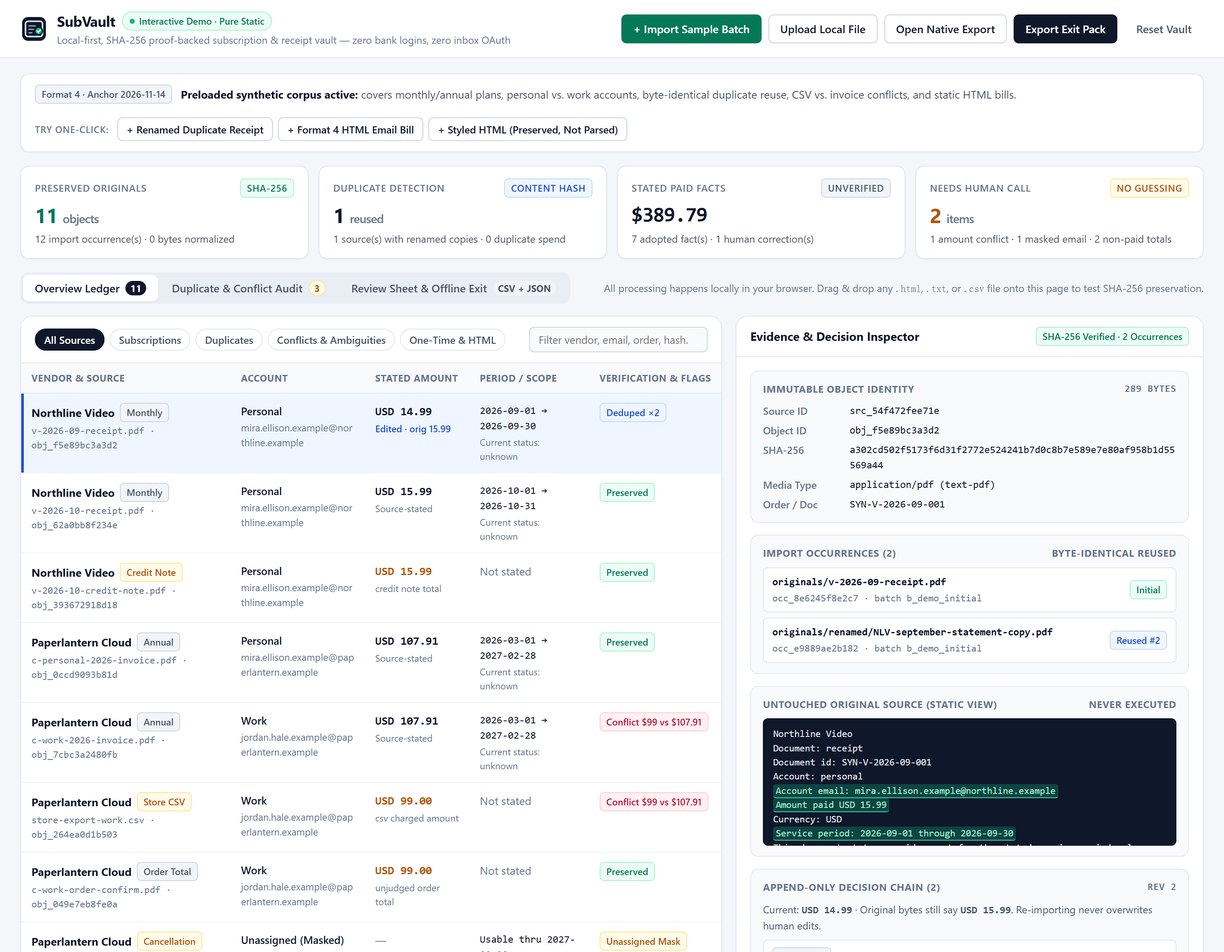
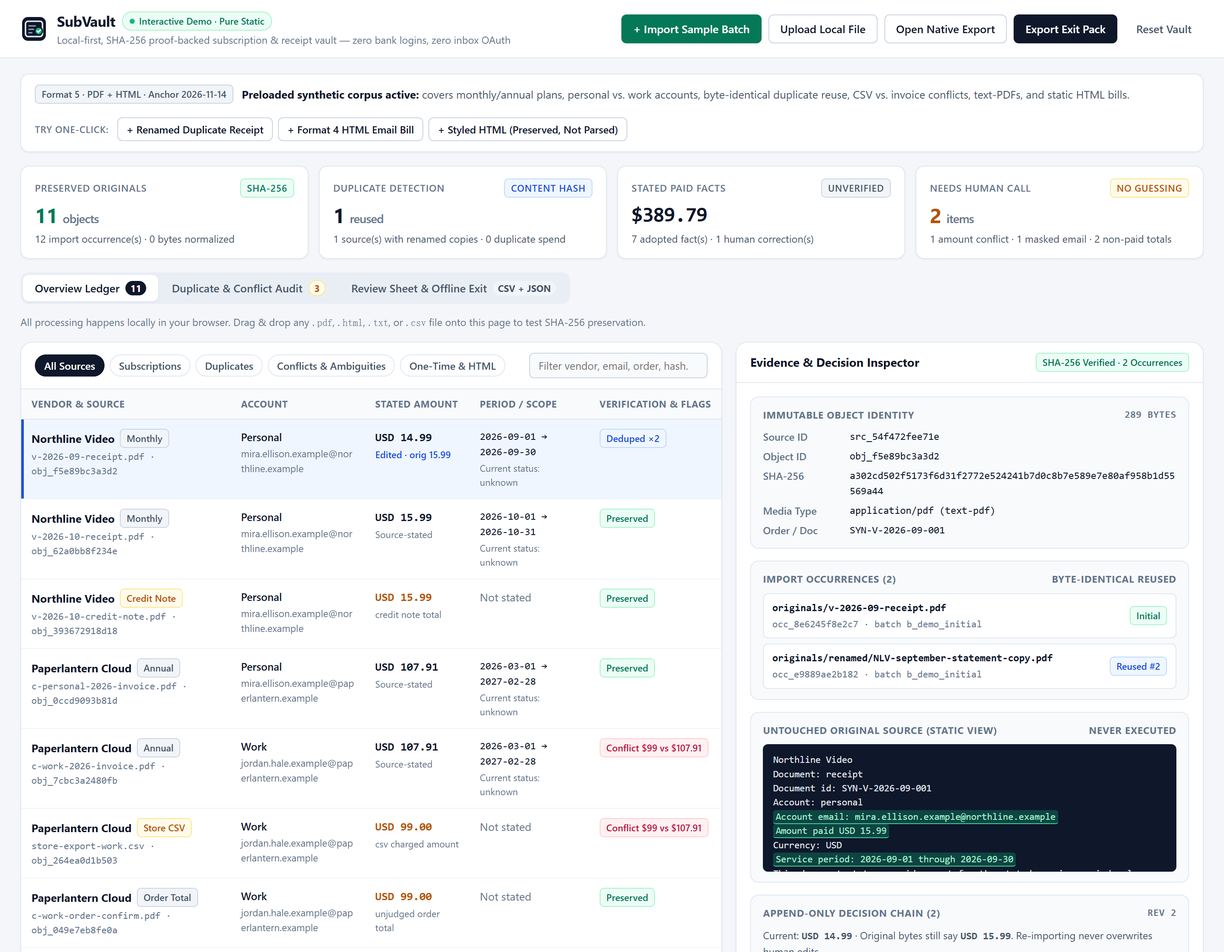
docs(release): bump to v0.1.1 with conservative 0.1.x roadmap, format 5 demo bundle, and refreshed screenshots

diff --git a/RELEASE_NOTES.md b/RELEASE_NOTES.md
@@ -1,34 +1,31 @@
-# SubVault v0.1.0 Release Notes
+# SubVault v0.1.1 Release Notes
 
-**Release date:** 2026-11-19  
-**Tag:** `v0.1.0`  
+**Release date:** 2026-11-20  
+**Tag:** `v0.1.1`  
 **Live Demo:** <https://yanagi42.github.io/SubVault/>
 
 ---
 
 ## Highlights
 
-SubVault `v0.1.0` packages the verified **local-first Rust + SQLite preservation core (T0–T5, Vault Formats 1–4)** alongside a **pure-static interactive Web Demo** so anyone can inspect SubVault's epistemic ledger, SHA-256 byte-identical deduplication, conflict handling, append-only human corrections, and verifiable offline exit flow directly in a browser or from a portable Linux bundle.
+SubVault `v0.1.1` adds **Format 5 native static text-PDF preservation and extraction (`subvault pdf`)** — allowing a single isolated vault to preserve and verify **both** real text-PDFs (uncompressed and `/FlateDecode`) and static HTML billing emails, while keeping Formats 1–4 strictly unmigrated and bringing real binary `.pdf` hashing and parsing into the pure-static Web Demo.
 
-### What's New in `v0.1.0`
+### What's New in `v0.1.1`
 
-1. **Interactive Pure-Static Web Demo (`web/`)**
-   - **Preloaded Synthetic Corpus:** Ships out-of-the-box with realistic billing scenarios covering monthly/annual subscriptions, personal vs. work account separation at the same vendor, byte-identical duplicate detection across renamed files, CSV vs. tax-invoice amount conflicts (`$99.00` vs. `$107.91`), credit-note totals vs. paid amounts, cancelled-but-usable renewals, masked unassigned account emails, one-time perpetual software licenses, and Format 4 static HTML table-row bills.
-   - **One-Click Sample Import & Local File Drop:** Re-import the 12-file sample batch or drop local `.html`, `.txt`, `.csv`, and `.pdf` files directly in the browser to observe real SHA-256 object reuse, occurrence logging, and non-destructive human `correct` / `undo` decision preservation.
-   - **Zero Lock-In Browser Exports & Native CLI Interop:** Preview and download `review.txt`, `facts.csv`, `records.json`, `manifest.json`, or a single full `.zip` offline exit archive (`web/zip.js`) directly verifiable by `subvault verify-package`, and open/SHA-256-verify real native `subvault export` folders directly in the browser via **Open Native Export**.
-   - **Interactive Human Decisions & Local Persistence:** Inline amount `correct`/`undo`, masked-account attribution (`human_assign_account`/`undo`), and automatic browser `localStorage` persistence with one-click reset.
-   - **Subpath-Safe Static Hosting:** All static asset references are strictly relative (`./*`) with `.nojekyll` enabled for zero-error deployment on GitHub Pages (`/SubVault/`).
+1. **Native Text-PDF Preservation & Extraction — Isolated Format 5 (`subvault pdf`)**
+   - **Pure-Rust Bounded-Memory PDF Parser (`src/pdf_parse.rs`, `src/pdf.rs`):** Preserves raw `%PDF-` bytes verbatim in `objects/obj_<id>` (SHA-256 verified, zero normalization) and extracts source-stated lines from uncompressed and `/FlateDecode` (`miniz_oxide` `=0.8.8`, capped at 1 MiB/stream and 4 MiB/PDF) content streams with 1-based `pdf_page` locators.
+   - **Verified Against the Full T0 Synthetic PDF Corpus:** Extracts monthly/yearly `stated_amount_paid` and `stated_service_period` facts, keeps credit-note and order-confirmation `Total` lines un-adopted, preserves masked cancellation notices (`j***@...`, usable-through dates) unassigned, preserves one-time perpetual license scope verbatim without inventing renewal dates, and deduplicates renamed byte-identical copies (`AlreadyPreserved`) without overwriting prior human `correct`/`undo` edits.
+   - **Honest Safety Boundaries:** Encrypted PDFs (`/Encrypt`) are preserved verbatim and reported as `extraction=unsupported` (`encrypted_pdf`); scanned/image-only PDFs report `no_extractable_text` (`ocr=not_available`); fake renamed non-PDF text files are rejected before preservation (`invalid_pdf_header`).
+   - **Mixed PDF + HTML Vault:** Format 5 (`subvault init --format 5`) accepts both `subvault pdf` and `subvault html`, with full support for `facts`, `candidates`, `correct`, `undo`, `export`, `verify-package`, and `review --package`.
 
-2. **Verified Rust + SQLite Preservation & Extraction Core (`subvault` CLI)**
-   - **Immutable Byte Custody (T1):** Content-addressed `objects/obj_<id>` storage with SHA-256 integrity verification, zero byte normalization, idempotent `CommandId` journaling, exclusive non-blocking `flock`, SQLite 3.46 WAL (`synchronous=FULL`), atomic directory publication via `renameat2(RENAME_NOREPLACE)` + parent fd `fsync`, and 17 distinct honest exit codes.
-   - **Source-Stated Candidates & Facts (T2a / T3 / Format 4):** Deterministic extraction for UTF-8 text fragments and constrained static HTML bills (`tl` 0.7.8 + `html-escape` 0.2.13, refusing `<style>` / stylesheets instead of guessing CSS visibility), recording exact Unicode scalar and UTF-8 byte offsets.
-   - **Append-Only Human Decisions:** `correct` and `undo` append auditable human revisions while keeping original bytes untouched and surviving re-imports.
-   - **Offline Exit, Standalone Verification & Read-Only Review Sheet (T5):** `subvault export` produces self-contained packages (`records.json`, `facts.csv`, `manifest.json`, `originals/<object_id>`) with explicit `complete` vs. `partial` reporting; `subvault verify-package --package PATH` independently validates `manifest.json`, `snapshot_id`, `facts.csv`, and every original file's SHA-256 without needing the live vault; `subvault review` writes a lock-consistent plain-text review sheet linked only to hash-verified package originals.
+2. **Interactive Pure-Static Web Demo (`web/`) — Real Binary PDF Support + Native CLI Bridge**
+   - **Real Binary `.pdf` Drop (`web/pdf.js`):** Dropping local `.pdf` files onto the browser hashes exact raw PDF bytes (matching `synthetic/corpus/byte-expectations.json` SHA-256 bit-for-bit), deduplicates renamed copies, and extracts static text lines client-side.
+   - **Bidirectional CLI ↔ Web Interop:** Download a full `.zip` offline exit archive (`web/zip.js`) directly verifiable by `subvault verify-package`, or open any native `subvault export` directory (Format 3/4/5) via **Open Native Export** to verify every file's SHA-256 in-browser.
+   - **Preloaded Demo & Human Decisions:** Ships preloaded with the 12-file synthetic corpus, inline amount `correct`/`undo`, masked account attribution + undo, and local browser persistence.
 
-3. **CI, Automated Packaging & Release Verification**
-   - Added `.github/workflows/ci.yml` running deterministic corpus verification, `cargo fmt --check`, `cargo clippy --lib --bins -- -D warnings`, full Rust unit and historical-worktree compatibility integration tests, bidirectional Web<->CLI interop checks, and portable bundle packaging with `SHA256SUMS.txt` verification.
-   - Added `.github/workflows/pages.yml` for automated GitHub Pages deployment with subpath HTTP 200 checks.
-   - Added `.github/workflows/release.yml` for tag-driven (`v*`) GitHub Release publishing alongside `scripts/package-release.sh`.
+3. **CI, Standalone Verifier & Automated Release Verification**
+   - Includes `subvault verify-package --package PATH` for standalone offline verification without the live vault.
+   - Enforces `cargo fmt --check`, `cargo clippy --lib --bins --locked -- -D warnings`, deterministic T0 corpus verification, full Rust unit/integration suites (including `tests/pdf_bill.rs` and `tests/verify_package.rs`), bidirectional Format 5 Web↔CLI interop checks, and portable bundle packaging with `SHA256SUMS.txt`.
 
 ---
 
@@ -36,9 +33,9 @@ SubVault `v0.1.0` packages the verified **local-first Rust + SQLite preservation
 
 | Asset | Contents |
 | --- | --- |
-| `subvault-v0.1.0-linux-x86_64.zip` | Portable Linux x86_64 `subvault` CLI binary, static Web Demo (`web/`), verified T0 synthetic corpus, `run-demo.sh`, and documentation |
-| `subvault-v0.1.0-linux-x86_64.tar.gz` | Same portable bundle in `.tar.gz` format |
-| `subvault-v0.1.0-web-demo.zip` | Pure-static Web Demo files ready for any static host or offline folder |
+| `subvault-v0.1.1-linux-x86_64.zip` | Portable Linux x86_64 `subvault` CLI binary (Formats 1–5), static Web Demo (`web/`), verified T0 synthetic corpus, `run-demo.sh`, and documentation |
+| `subvault-v0.1.1-linux-x86_64.tar.gz` | Same portable bundle in `.tar.gz` format |
+| `subvault-v0.1.1-web-demo.zip` | Pure-static Web Demo files ready for any static host or offline folder |
 | `SHA256SUMS.txt` | SHA-256 checksums for all release archives |
 
 ### Verify Checksums
@@ -50,10 +47,10 @@ sha256sum -c SHA256SUMS.txt
 ### Quick Start (Portable Bundle)
 
 ```bash
-unzip subvault-v0.1.0-linux-x86_64.zip
-cd subvault-v0.1.0-linux-x86_64
+unzip subvault-v0.1.1-linux-x86_64.zip
+cd subvault-v0.1.1-linux-x86_64
 
-# Run an end-to-end native CLI Format 4 HTML + export + review walkthrough
+# Run an end-to-end Format 5 PDF + duplicate reuse + HTML + export + verify-package + review demo
 ./run-demo.sh cli
 
 # Or launch the local pure-static Web Demo at http://127.0.0.1:4173
@@ -64,8 +61,6 @@ cd subvault-v0.1.0-linux-x86_64
 
 ## Known Scope & Platform Boundaries
 
-SubVault prioritizes **epistemic honesty** over premature claims:
-
-- **Synthetic Verification Stage:** The native CLI vault retains the `SYNTHETIC_ONLY` guard (`user_ready=false`, `security_complete=false`) until real-data encryption/protection preferences and PDF text extraction are finalized.
-- **Platform Support:** Native binary builds and file-locking tests currently target Linux (`ext4` / `flock` / `renameat2`). Windows lock and file-identity contracts (`src/windows_lock.rs`, `src/windows_file_id.rs`) are staged behind `cfg(windows)` and have not yet been compiled or runtime-verified on Windows.
-- **Not Yet Implemented:** Native PDF text extraction, OCR, at-rest encryption selection, full-text search, automatic email/bank syncing, and native Windows desktop UI shell.
+- **Synthetic Verification Stage:** Native CLI vaults retain the `SYNTHETIC_ONLY` guard (`user_ready=false`, `security_complete=false`) until at-rest encryption and key recovery are finalized (`v0.1.3`).
+- **Platform Support:** Native binary builds and file-locking tests currently target Linux (`ext4` / `flock` / `renameat2`). Windows lock and file-identity contracts (`src/windows_lock.rs`, `src/windows_file_id.rs`) are staged behind `cfg(windows)` for `v0.1.2`.
+- **Not Yet Implemented:** OCR for scanned PDFs, encrypted PDF decryption, at-rest vault encryption, full-text search, and native desktop UI shell.

diff --git a/docs/ROADMAP.md b/docs/ROADMAP.md
@@ -1,44 +1,36 @@
-# SubVault Roadmap — Next Iteration (`v0.2.0`)
+# SubVault Roadmap — Incremental `0.1.x` Progression
 
-This document captures the clean handoff boundary at the close of **`v0.1.0`** (verified Linux preservation/extraction core + interactive pure-static Web Demo + bidirectional `offline-exit-1` verification) and defines the concrete engineering milestones for the next iteration (**`v0.2.0`**).
-
----
-
-## Completed in `v0.1.0`
-
-- [x] **T0–T5 Rust + SQLite Core (Linux `ext4`):** immutable byte preservation (`objects/obj_*`), SHA-256 integrity, `flock`, SQLite 3.46 WAL (`synchronous=FULL`), `renameat2(RENAME_NOREPLACE)` + parent fd `fsync`, Format 1–4 isolation, deterministic UTF-8 fragment & constrained static HTML extraction, append-only `correct`/`undo`, `export`, `review`, and standalone `verify-package`.
-- [x] **Pure-Static Web Demo & Native Bridge (`web/`):** preloaded 12-file synthetic corpus, one-click sample re-import & SHA-256 deduplication audit, masked account attribution + undo, local persistence, pure-JS `.zip` offline exit pack (passes native `subvault verify-package`), and `Open Native Export` loader (verifies native `subvault export` folders in-browser).
-- [x] **Engineering & Release Infrastructure:** `cargo fmt` + `cargo clippy --lib --bins -D warnings` clean, GitHub Actions CI (`ci.yml`), GitHub Pages deploy (`pages.yml`), automated tag release workflow (`release.yml`), portable packaging script (`scripts/package-release.sh`) with `SHA256SUMS.txt`, and headless UI screenshots.
+SubVault uses **conservative, honest version increments**: `0.1.x` tracks verified core milestones while the native CLI still carries the `SYNTHETIC_ONLY` guard (`user_ready=false`). `0.2.0` is reserved for the first real-data, desktop-usable release.
 
 ---
 
-## Next Iteration (`v0.2.0`) — From Synthetic Core to First 100 Real Users
+## Completed Milestones
 
-### Milestone 1: Native Windows Support & Verification
-- **Goal:** Lift the `target_os = "linux"` compile gate in `src/platform.rs` cleanly with real Windows verification.
-- **Concrete tasks:**
-  1. Wire `src/windows_lock.rs` (`CreateFileW` + `LockFileEx`) into `VaultLock` under `cfg(windows)`.
-  2. Wire `src/windows_file_id.rs` (`GetFileInformationByHandleEx` / `FileIdInfo`) into output-path containment checks (`place_output`), covering Windows case-insensitivity and NTFS junctions/reparse points.
-  3. Implement atomic no-replace directory publication for Windows without silent overwrite.
-  4. Add a `windows-latest` job to `.github/workflows/ci.yml` and Windows `.zip` output to `release.yml`.
+### `v0.1.0` — Local Preservation Core (Formats 1–4) + Pure-Static Web Demo
+- [x] Linux `ext4` single-writer preservation (`flock`, SQLite 3.46 WAL `synchronous=FULL`, `renameat2(RENAME_NOREPLACE)` + parent fd `fsync`, 17 honest exit codes).
+- [x] Isolated Formats 1–4 (`fragment`, constrained static `html`, append-only `correct`/`undo`, `export`, `review`, standalone `verify-package`).
+- [x] Pure-static interactive Web Demo (`web/`) with preloaded synthetic corpus, SHA-256 deduplication audit, masked account attribution, full `.zip` offline exit, and `Open Native Export` verifier.
+- [x] GitHub Actions CI (`ci.yml`), GitHub Pages (`pages.yml`), tag release workflow (`release.yml`), and portable packaging (`scripts/package-release.sh`).
 
-### Milestone 2: Native PDF Text Extraction
-- **Goal:** Support real-world text PDFs (starting with the exact 9 text-PDF fixtures already defined in `synthetic/corpus/originals/*.pdf`) while keeping raw PDF bytes untouched and never silently running OCR.
-- **Concrete tasks:**
-  1. Add a deterministic, bounded-memory PDF text extractor emitting page-scoped locators (`pdf_page`, byte/scalar offsets) into `candidates` + `facts`.
-  2. Support multi-document logical expectations from `synthetic/corpus/logical-expectations.json`: same-merchant multi-account separation, credit-note vs. paid separation, order-total non-adoption, one-time perpetual license scope, and CSV-vs-invoice conflict surfacing.
-  3. Add a redacted-template export helper so early users can share broken vendor invoice layouts safely without leaking personal data.
+### `v0.1.1` — Format 5 Native Text-PDF Preservation & Extraction (`subvault pdf`)
+- [x] Pure-Rust bounded-memory PDF content stream parser (`src/pdf_parse.rs`, `miniz_oxide` `FlateDecode` with 1 MiB/stream & 4 MiB/PDF decompression-bomb caps, 1-based `pdf_page` locators).
+- [x] Isolated Format 5 vault (`subvault init --format 5`) accepting **both** `subvault pdf` and `subvault html` in one vault, while keeping Formats 1–4 strictly unmigrated.
+- [x] Verified against all 9 real `%PDF-1.4` files + renamed byte-identical duplicate in `synthetic/corpus/originals/`, plus compressed `FlateDecode` PDFs, encrypted PDFs (`preservation=preserved`, `extraction=unsupported`), and fake renamed text files (`invalid_pdf_header`).
+- [x] Real binary `.pdf` drag-and-drop & exact SHA-256 deduplication in the Web Demo (`web/pdf.js`) plus bidirectional Format 5 Rust CLI ↔ Web interop tests.
 
-### Milestone 3: Real-Data Protection Mode & Removing `SYNTHETIC_ONLY`
-- **Goal:** Answer `protection_preference` and `primary_input_preference` cleanly so real personal/work billing receipts can be stored safely.
-- **Concrete tasks:**
-  1. Finalize local at-rest protection design (e.g., user-passphrase envelope encryption / SQLCipher or OS-keystore-backed object encryption + explicit offline recovery key).
-  2. Introduce a non-synthetic production vault format (preserving strict isolation from disposable synthetic Formats 1–4).
-  3. Document threat model, backup/recovery procedure, and verified offline exit decryption flow.
+---
 
-### Milestone 4: Thin Native Desktop Shell (Windows-First)
-- **Goal:** Replace the CLI-only workflow with a native desktop wrapper over the Rust core (e.g., Tauri or egui sharing the exact UI flows validated in `web/`).
-- **Concrete tasks:**
-  1. Drag-and-drop & watch-folder local intake (PDF, saved HTML emails, store CSVs) — still zero Plaid and zero inbox OAuth.
-  2. Overview ledger, one-click jump to untouched original evidence, inline `correct`/`undo`/attribution, and one-click verifiable exit pack export.
-  3. Signed portable Windows installer/zip for the first 100 indie-dev & local-first pilot users.
+## Upcoming `0.1.x` Milestones (Before `v0.2.0`)
+
+### `v0.1.2` — Native Windows Platform Wiring & CI Matrix
+- Wire `src/windows_lock.rs` (`CreateFileW` + `LockFileEx`) into `VaultLock` under `cfg(windows)`.
+- Wire `src/windows_file_id.rs` (`GetFileInformationByHandleEx` / `FileIdInfo`) into `place_output`, covering case-insensitivity and NTFS junctions/reparse points.
+- Implement atomic no-replace directory publication on Windows and add a `windows-latest` job to `.github/workflows/ci.yml` and `release.yml`.
+
+### `v0.1.3` — At-Rest Protection Mode & Real-Data Vault Format
+- Finalize local at-rest encryption and offline recovery-key design (`protection_preference`), plus a redacted-template export helper for sharing broken real-world vendor invoice layouts safely.
+- Introduce a dedicated non-synthetic production vault format isolated from disposable synthetic Formats 1–5.
+
+### `v0.2.0` — First User-Ready Local Desktop Release (Windows-First)
+- Thin native desktop shell wrapping the verified Rust/SQLite core (drag-and-drop / watch-folder local intake for PDF, HTML, and CSV — still zero Plaid and zero inbox OAuth).
+- Signed portable Windows release targeted at the first 100 indie-developer and local-first pilot users.

diff --git a/README.md b/README.md
@@ -11,7 +11,7 @@
 
 - **Live Interactive Demo (GitHub Pages):** **[https://yanagi42.github.io/SubVault/](https://yanagi42.github.io/SubVault/)** — preloaded synthetic corpus, one-click sample import, real SHA-256 duplicate detection, inline `correct`/`undo` & masked-account attribution, native CLI export verifier (`Open Native Export`), and one-click `.zip` offline exit download
 - **Portable Releases & Checksums:** **[Download Latest Release](https://github.com/Yanagi42/SubVault/releases/latest)** · [Release Notes (`RELEASE_NOTES.md`)](./RELEASE_NOTES.md) · [Changelog (`CHANGELOG.md`)](./CHANGELOG.md)
-- **Next Iteration Plan (`v0.2.0`) & Full Technical Spec:** [Roadmap (`docs/ROADMAP.md`)](./docs/ROADMAP.md) · [Full Technical Verification Spec (中文)](./docs/SPEC-zh.md)
+- **Next Milestones (`0.1.x` Roadmap) & Full Technical Spec:** [Roadmap (`docs/ROADMAP.md`)](./docs/ROADMAP.md) · [Full Technical Verification Spec (中文)](./docs/SPEC-zh.md)
 
 ---
 
@@ -87,14 +87,14 @@ Open **[https://yanagi42.github.io/SubVault/](https://yanagi42.github.io/SubVaul
 - Click any row to inspect raw bytes, run **`Correct Amount`** / **`Undo`**, or switch to **`Review Sheet & Offline Exit`** to download `facts.csv`, `records.json`, and `manifest.json`.
 
 ### 2. Run the Portable Release Bundle (Linux x86_64)
-Download `subvault-v0.1.0-linux-x86_64.zip` and `SHA256SUMS.txt` from [GitHub Releases](https://github.com/Yanagi42/SubVault/releases/latest):
+Download `subvault-v0.1.1-linux-x86_64.zip` and `SHA256SUMS.txt` from [GitHub Releases](https://github.com/Yanagi42/SubVault/releases/latest):
 
 ```bash
 sha256sum -c SHA256SUMS.txt
-unzip subvault-v0.1.0-linux-x86_64.zip
-cd subvault-v0.1.0-linux-x86_64
+unzip subvault-v0.1.1-linux-x86_64.zip
+cd subvault-v0.1.1-linux-x86_64
 
-# Run an end-to-end native CLI Format 4 HTML + dedup + export + review walkthrough
+# Run an end-to-end Format 5 PDF + duplicate reuse + HTML + export + verify-package + review walkthrough
 ./run-demo.sh cli
 
 # Or serve the offline pure-static Web Demo locally at http://127.0.0.1:4173
@@ -122,13 +122,19 @@ node scripts/test-web.mjs
 bash scripts/package-release.sh
 ```
 
-### 4. Native CLI Walkthrough (Format 4 HTML + Verifiable Exit)
+### 4. Native CLI Walkthrough (Format 5 PDF + HTML + Verifiable Exit)
 
 ```bash
-# Initialize an isolated Format 4 vault
-./target/release/subvault init --vault /tmp/my-vault --format 4
+# Initialize an isolated Format 5 vault (accepts static text-PDFs & static HTML bills)
+./target/release/subvault init --vault /tmp/my-vault --format 5
 
-# Preserve & extract a static HTML bill
+# Preserve & extract a text-PDF receipt (uncompressed or FlateDecode)
+./target/release/subvault pdf \
+  --vault /tmp/my-vault \
+  --command-id cmd-pdf-1 \
+  --source ./synthetic/corpus/originals/v-2026-09-receipt.pdf
+
+# Preserve & extract a static HTML bill in the same vault
 ./target/release/subvault html \
   --vault /tmp/my-vault \
   --command-id cmd-bill-1 \
@@ -156,9 +162,9 @@ bash scripts/package-release.sh
 
 | Path | Purpose |
 | --- | --- |
-| `src/` | Rust preservation engine, SQLite WAL store, static text & HTML extractors, append-only decision chain, offline exporter, and review sheet renderer |
-| `tests/` | 19 integration & backward-compatibility test suites (crash/fault hooks, WAL/header consistency, directory `renameat2(RENAME_NOREPLACE)`, parent fd `fsync`) |
-| `web/` | Zero-dependency, subpath-safe pure-static interactive Web Demo (`index.html`, `app.js`, `engine.js`, `demo-data.js`, `zip.js`, `styles.css`) |
+| `src/` | Rust preservation engine, SQLite WAL store, static text, HTML & PDF (`FlateDecode`) extractors, append-only decision chain, offline exporter, standalone verifier, and review sheet renderer |
+| `tests/` | 21 integration & backward-compatibility test suites (including `pdf_bill.rs`, `verify_package.rs`, crash/fault hooks, WAL/header consistency, `renameat2(RENAME_NOREPLACE)`, parent fd `fsync`) |
+| `web/` | Zero-dependency, subpath-safe pure-static interactive Web Demo (`index.html`, `app.js`, `engine.js`, `demo-data.js`, `pdf.js`, `zip.js`, `styles.css`) |
 | `synthetic/` | Deterministic T0 corpus generator and independent byte/logical expectations |
 | `scripts/` | Release packaging (`package-release.sh`), Web Demo & CLI-interop checks (`test-web.mjs`), screenshot capture (`capture-screenshots.py`), and T1 evidence script |
 | `.github/workflows/` | Automated CI (`ci.yml`), GitHub Pages deployment (`pages.yml`), and tag-driven release publishing (`release.yml`) |
@@ -170,7 +176,7 @@ bash scripts/package-release.sh
 
 SubVault intentionally separates **verified guarantees** from **unbuilt milestones**:
 
-- **Verified today:** Linux `ext4` single-writer preservation (`flock`, SQLite 3.46 WAL `synchronous=FULL`, `renameat2(RENAME_NOREPLACE)`), Format 1–4 isolation, deterministic UTF-8 fragment & constrained static HTML extraction (`tl` 0.7.8, CSS/stylesheet safely rejected), append-only human `correct`/`undo`, verifiable `offline-exit-1` export packages, read-only `review` sheets, and the pure-static interactive Web Demo.
-- **Not yet completed:** Native PDF text extraction, OCR, at-rest encryption selection (CLI vaults still carry the `SYNTHETIC_ONLY` guard), full-text search, native Windows runtime verification (`src/windows_lock.rs` and `src/windows_file_id.rs` are staged behind `cfg(windows)`), and native desktop UI shell.
+- **Verified today (`v0.1.1`):** Linux `ext4` single-writer preservation (`flock`, SQLite 3.46 WAL `synchronous=FULL`, `renameat2(RENAME_NOREPLACE)`), Format 1–5 isolation, deterministic UTF-8 fragment, constrained static HTML (`tl` 0.7.8), and static text-PDF (`FlateDecode` via `miniz_oxide`, 1-based `pdf_page` locators) extraction, append-only human `correct`/`undo`, verifiable `offline-exit-1` export & standalone `verify-package`, read-only `review` sheets, and the pure-static interactive Web Demo with real binary PDF drop.
+- **Planned next (`0.1.x` → `0.2.0`, see [`docs/ROADMAP.md`](./docs/ROADMAP.md)):** Native Windows runtime wiring & CI (`v0.1.2`, `src/windows_lock.rs` & `src/windows_file_id.rs` are staged behind `cfg(windows)`), at-rest encryption & removing the `SYNTHETIC_ONLY` guard (`v0.1.3`), OCR / full-text search, and native desktop UI shell (`v0.2.0`).
 
 For the exhaustive contract of exit codes (0–21), crash/recovery semantics, and Format 1–4 invariants, see [`docs/SPEC-zh.md`](./docs/SPEC-zh.md).

diff --git a/CHANGELOG.md b/CHANGELOG.md
@@ -1,15 +1,30 @@
 # Changelog
 
 All notable changes to SubVault are documented in this file.
-Format follows [Keep a Changelog](https://keepachangelog.com/en/1.1.0/) and [Semantic Versioning](https://semver.org/).
+Format follows [Keep a Changelog](https://keepachangelog.com/en/1.1.0/) and conservative `0.1.x` [Semantic Versioning](https://semver.org/).
 
 ## [Unreleased]
 
-Planned for the next iteration (`v0.2.0` — see [`docs/ROADMAP.md`](./docs/ROADMAP.md)):
-- Windows native runtime wiring (`src/windows_lock.rs`, `src/windows_file_id.rs`) and `windows-latest` CI verification.
-- Native PDF text extraction with exact page/offset locators.
-- At-rest encryption & key-recovery decision enabling removal of the `SYNTHETIC_ONLY` gate for real personal data.
-- Native desktop shell wrapping the Rust/SQLite engine.
+Planned next incremental steps (see [`docs/ROADMAP.md`](./docs/ROADMAP.md)):
+- `v0.1.2`: Windows native runtime wiring (`src/windows_lock.rs`, `src/windows_file_id.rs`) and `windows-latest` CI matrix.
+- `v0.1.3`: Local at-rest encryption & key-recovery design for a non-synthetic production format.
+- `v0.2.0`: First user-ready Windows desktop shell over the Rust/SQLite core.
+
+## [0.1.1] - 2026-11-20
+
+### Added
+- **Isolated Format 5 Vault & Native Text-PDF Extraction (`src/pdf_parse.rs`, `src/pdf.rs`):**
+  - New `subvault pdf --vault PATH --command-id ID --source PATH [--batch-id ID]` command preserving raw `%PDF-` bytes untouched in `objects/obj_*` and extracting source-stated lines (`Amount paid`, `Service period`, `Total` credit-note/order-total semantics, masked/plain emails, cancellation `usable through`, and verbatim one-time license scopes) with 1-based `pdf_page` locators.
+  - Bounded-memory pure-Rust content stream parser supporting uncompressed streams and `/FlateDecode` (`miniz_oxide` `=0.8.8`, capped at 1 MiB/stream and 4 MiB/PDF); detects encrypted PDFs (`encrypted_pdf`) and refuses fake non-PDF headers (`invalid_pdf_header`) without running OCR.
+  - Format 5 (`init --format 5`) accepts both `subvault pdf` and `subvault html` in the same vault while leaving Formats 1–4 untouched and unmigrated.
+  - Integration test suite `tests/pdf_bill.rs` verifying all 9 synthetic `%PDF-1.4` fixtures + renamed duplicate reuse, human edit preservation across re-imports, `FlateDecode`, encrypted PDFs, mixed PDF+HTML `export` / `verify-package` / `review`, and Format 1–4 isolation gates.
+- **Real Binary PDF Ingestion in Web Demo (`web/pdf.js`):**
+  - Dropping real `.pdf` files onto the Web Demo hashes exact raw binary bytes (matching `synthetic/corpus/byte-expectations.json` SHA-256 bit-for-bit) and extracts static text lines directly in-browser.
+  - Extended `scripts/test-web.mjs` with real binary PDF SHA-256 deduplication tests and bidirectional Format 5 (`subvault pdf` + `subvault html` → `export` → `verify-package` → Web `Open Native Export`) interop verification.
+
+### Changed
+- Updated portable `run-demo.sh cli` inside `scripts/package-release.sh` to demonstrate Format 5 with a real synthetic PDF, renamed duplicate reuse, a static HTML bill, `export`, `verify-package`, and `review`.
+- Adjusted `docs/ROADMAP.md` to conservative `0.1.x` milestone increments before `0.2.0`.
 
 ## [0.1.0] - 2026-11-19
 
@@ -20,15 +35,10 @@ Planned for the next iteration (`v0.2.0` — see [`docs/ROADMAP.md`](./docs/ROAD
   - Append-only human decision chain (`correct` / `undo`) preserving original bytes verbatim across re-imports.
   - Self-contained `offline-exit-1` exporter (`subvault export`), lock-consistent read-only plain-text review sheet (`subvault review`), and standalone offline package verifier (`subvault verify-package --package PATH`).
 - **Pure-Static Interactive Web Demo (`web/`):**
-  - Preloaded 12-file synthetic corpus covering monthly/annual bills, same-merchant personal vs. work isolation, SHA-256 byte-identical deduplication, CSV vs. invoice amount conflicts, credit notes, masked cancellation notices, perpetual licenses, and Format 4 HTML bills.
-  - One-click sample batch import, local file drag-and-drop, inline amount `correct`/`undo`, masked account attribution + undo, browser `localStorage` persistence, one-click full `.zip` offline exit download (`web/zip.js`), and native CLI export folder loader (`Open Native Export`) with SHA-256 verification.
-  - Bidirectional interoperability verified between `subvault export` / `subvault verify-package` and the Web Demo.
+  - Preloaded 12-file synthetic corpus, one-click sample batch import, SHA-256 deduplication & conflict audit, masked account attribution + undo, browser `localStorage` persistence, pure-JS `.zip` offline exit download (`web/zip.js`), and native CLI export folder loader (`Open Native Export`).
 - **CI, Pages, Release Automation & Docs:**
-  - `.github/workflows/ci.yml` (`fetch-depth: 0`, `fmt`, `clippy -D warnings`, full Rust test suite, Web/interop tests, portable packaging).
-  - `.github/workflows/pages.yml` (subpath `/SubVault/` verification + GitHub Pages deploy).
-  - `.github/workflows/release.yml` (automated `v*` tag release publishing with `SHA256SUMS.txt`).
-  - `scripts/package-release.sh`, `scripts/test-web.mjs`, `scripts/capture-screenshots.py`, `RELEASE_NOTES.md`, English `README.md`, real headless screenshots in `docs/screenshots/`, and preserved full Chinese spec in `docs/SPEC-zh.md`.
+  - `.github/workflows/ci.yml`, `.github/workflows/pages.yml`, `.github/workflows/release.yml`, `scripts/package-release.sh`, `scripts/test-web.mjs`, `scripts/capture-screenshots.py`, `RELEASE_NOTES.md`, English `README.md`, real headless screenshots in `docs/screenshots/`, and preserved full Chinese spec in `docs/SPEC-zh.md`.
 
 ### Changed
-- Cleaned all Clippy lint warnings in library and binary targets (`cargo clippy --lib --bins -- -D warnings`).
-- Made `scripts/run-t1-evidence.sh` portable across local Cargo registries and writable output directories via `SUBVAULT_EVIDENCE_OUT` and `CARGO_HOME`.
+- Resolved all Clippy lint warnings in library and binary targets (`cargo clippy --lib --bins -- -D warnings`).
+- Made `scripts/run-t1-evidence.sh` portable via `SUBVAULT_EVIDENCE_OUT` and `CARGO_HOME`.
